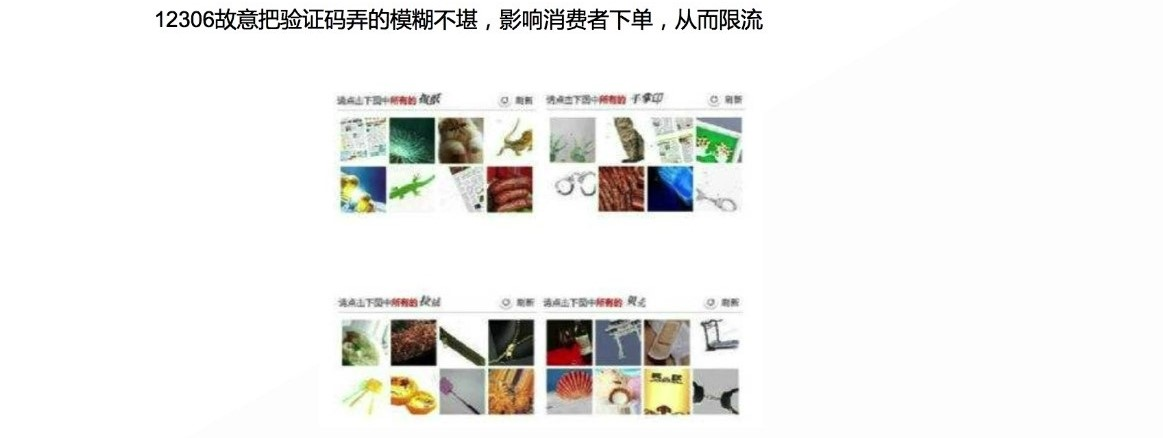
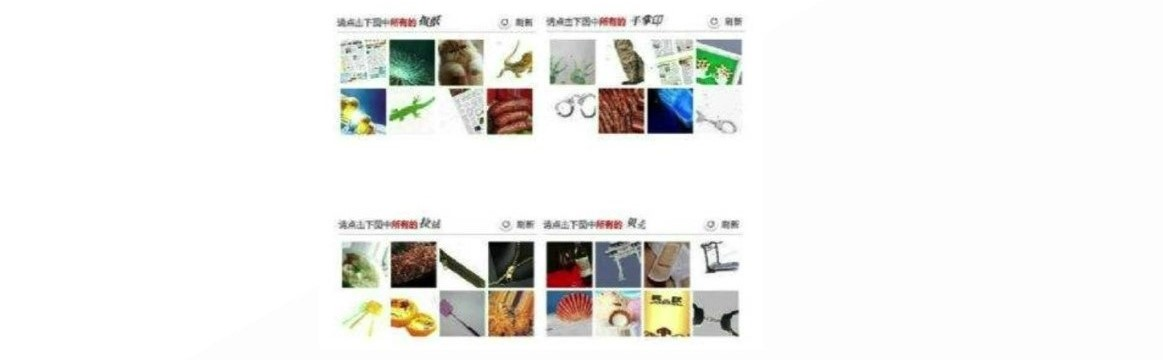
doc: 更新文章【基于Guava限流】

Changed region(s): [[0.1238, 0.0, 0.681, 0.4889], [0.2786, 0.5806, 0.65, 0.9472]]

diff --git a/docs/blog/document/latency_fault_tolerance/Google-xianliu-Guava.md b/docs/blog/document/latency_fault_tolerance/Google-xianliu-Guava.md
@@ -1,35 +1,55 @@
 ---
-title: 限流-Guava
+title: 【知识】基于Guava限流
 tags:
+  - Guava
   - 限流
 ---
+## 限流场景
+- 12306
+- 双十一（11.11零点，由于各种商家的促销活动(前XX名免单)，支付宝进入排队支付状态）
+- 外卖业务
 
--  **限流场景**
-
-12306
-双十一（11.11零点，由于各种商家的促销活动(前XX名免单)，支付宝进入排队支付状态）
-外卖业务
-
--  **常见的限流方案**  
-手动实现负载均衡
+## 常见的限流方案
+### 手动实现负载均衡
 ![](./assets/guava-xianliu/1.jpg)
-验证码
+### 验证码
+12306故意把验证码弄的模糊不清，影响消费者下单，从而限流
 ![](./assets/guava-xianliu/2.jpg)
-容器限流
-![](./assets/guava-xianliu/3.jpg)
-限流总资源数
-![](./assets/guava-xianliu/4.jpg)
-限流某个接口的总并发/请求数
-![](./assets/guava-xianliu/5.jpg)
-Nginx限流
+### 容器限流
+- 以Tomcat容器为例，其Connector其中一种配置有如下几个参数
+- acceptCount：如果Tomcat的线程都忙于响应，新来的连接会进入队列排队，如果超出排队大小，则拒绝连接
+- maxConnections：瞬时最大连接数，超出的会排队等待
+- maxThreads：Tomcat能用来处理请求的最大线程数，如果请求处理量一直远远大于最大线程数则可能会僵死
+### 限流总资源数
+如果有的资源是稀缺资源(如数据库连接、线程)，而且可能有多个系统都会去使用它，那么需要限制应用  
+可以使用池化技术来限制总资源数：连接池、线程池  
+比如分配给每个应用的数据库连接是100  
+那么本应用最多可以使用100个资源，超出了可以等待或者抛异常
+### 限流某个接口的总并发/请求数
+如果接口可能会有突发访问情况，但又担心访问量太大造成崩溃，如抢购业务；  
+这个时候就需要限制这个接口的总并发请求数了；  
+因为粒度比较细，可以为每个接口都设置相应的阈值。可以使用Java中的AtomicLong进行限流
+```java
+try {
+    if (atomic.incrementAndGet() > 限流数) {
+        // 拒绝请求
+    }
+    // 处理请求
+} finally {
+    atomic.decrementAndGet();
+}
+```
+### Nginx限流
+Nginx提供了一个叫ngx_http_limit_req_module的模块进行流量控制
 ![](./assets/guava-xianliu/6.jpg)
-消息队列
+### 消息队列
+通过RabbitMQ，RocketMQ，ActiveMQ，ZeroMQ，Kafka把流量做均匀，限制高流量涌入
 ![](./assets/guava-xianliu/7.jpg)
-利用Netflix的Hystrix限流
+### 利用Netflix的Hystrix限流
 ![](./assets/guava-xianliu/8.jpg)
 
 ##  Guava是什么
-![](./assets/guava-xianliu/9.jpg)
+Guava是一个Google开发的基于java的类库集合的扩展项目，包括collectiions，caching，primitives support，concurrency libraries，common annotations，string processing，I/O等等，这些高质量的API可以使你的JAVA代码更加优雅，更加简洁，让你工作更加轻松愉快  
 限流的概念
 ![](./assets/guava-xianliu/10.jpg)
 
@@ -45,8 +65,7 @@ Nginx限流
 
 ##  Guava限流实战
 Guava RateLimiter实现平滑限流
-![](./assets/guava-xianliu/20.jpg)
--  **平滑突发限流**
+-  **平滑突发限流(SmoothBursty)**
 
 ```java
 import com.google.common.util.concurrent.RateLimiter;
@@ -122,7 +141,7 @@ public class SmoothBurstyRateLimitTest03 {
 ```
 ![](./assets/guava-xianliu/19.jpg)
 
--  **平滑预热限流**
+-  **平滑预热限流(SmoothWarmingUp)**
 
 ```java
 import com.google.common.util.concurrent.RateLimiter;
